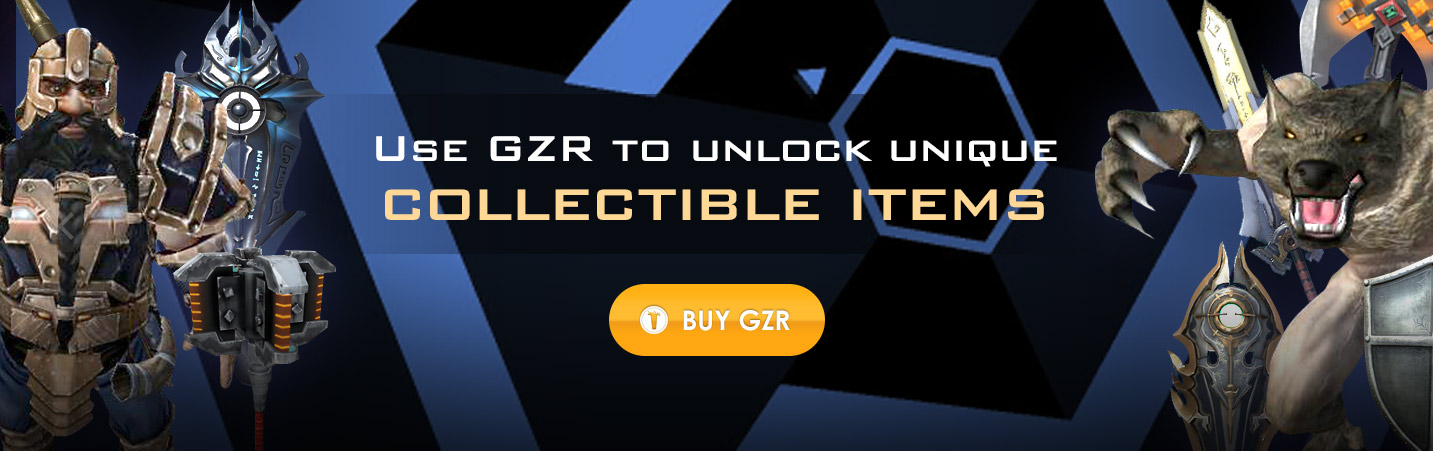
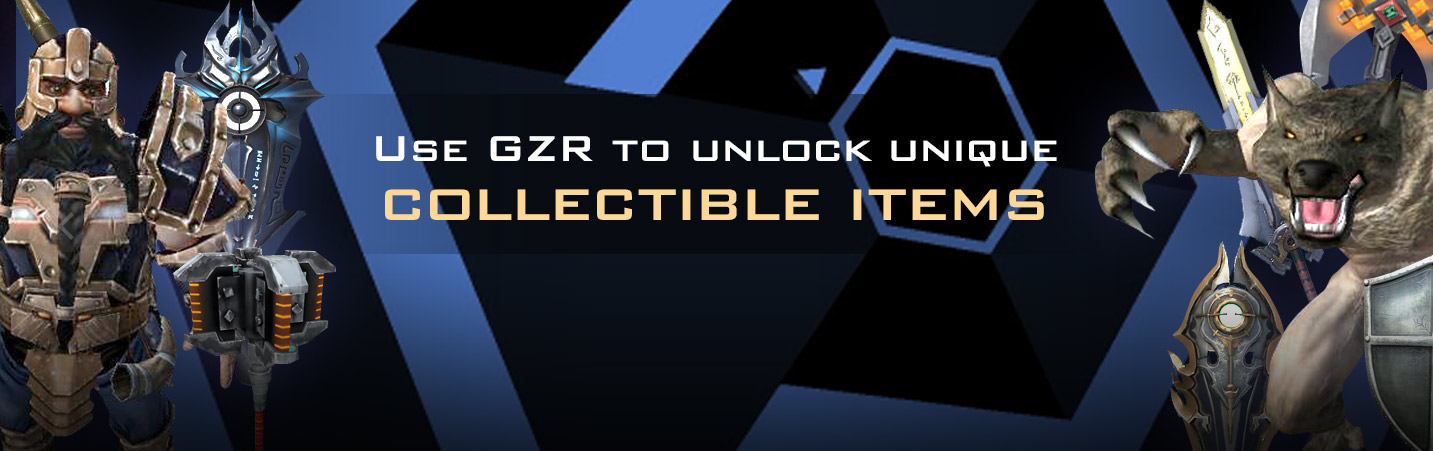
# Slider button works

Changed region(s): [[0.3992, 0.6208, 0.5834, 0.8071]]

diff --git a/src/app/app-routing.module.ts b/src/app/app-routing.module.ts
@@ -13,17 +13,14 @@ const routes: Routes = [
       {
         path: 'buy-gzr',
         loadChildren: './pages/buy-gzr/buy-gzr.module#BuyGzrModule',
-        pathMatch: 'full'
       },
       {
         path: 'meta-mask',
         loadChildren: './pages/meta-mask/meta-mask.module#MetaMaskModule',
-        pathMatch: 'full'
       },
       {
         path: 'open-treasure',
         loadChildren: './pages/open-treasure/open-treasure.module#OpenTreasureModule',
-        pathMatch: 'full'
       },
       {
         path: 'save-account',
@@ -33,22 +30,18 @@ const routes: Routes = [
       {
         path: 'faq',
         loadChildren: './pages/faq/faq.module#FaqModule',
-        pathMatch: 'full'
       },
       {
         path: 'team',
         loadChildren: './pages/team/team.module#TeamModule',
-        pathMatch: 'full'
       },
       {
         path: 'item-detail',
         loadChildren: './pages/item-detail/item-detail.module#ItemDetailModule',
-        pathMatch: 'full'
       },
       {
         path: 'terms-and-conditions',
         loadChildren: './pages/terms-and-conditions/terms-and-conditions.module#TermsAndConditionsModule',
-        pathMatch: 'full'
       }
     ]
   },

diff --git a/src/app/shared/components/hero-slider/hero-slider.component.scss b/src/app/shared/components/hero-slider/hero-slider.component.scss
@@ -1,4 +1,22 @@
 .hero-slider {
+    .btn-buy-gzr {
+        cursor: pointer;
+    }
+    .item-0 {
+        position: absolute;
+        top: 63%;
+        left: calc(50% - 108px);
+    }
+    .item-1 {
+        position: absolute;
+        top: 60%;
+        left: 10%;
+    }
+    .item-2 {
+        position: absolute;
+        top: 63%;
+        left: calc(50% - 108px);
+    }
     .carousel {
         .slick-dots {
             bottom: 25px;

diff --git a/src/app/shared/components/hero-slider/hero-slider.component.html b/src/app/shared/components/hero-slider/hero-slider.component.html
@@ -4,8 +4,9 @@
     #slickModal="slick-modal"
     [config]="slideConfig"
     >
-      <div ngxSlickItem *ngFor="let slide of slides" class="slide">
+      <div ngxSlickItem *ngFor="let slide of slides; let i = index" class="slide">
         <img src="{{ slide.img }}" alt="" width="100%">
+        <img class="btn-buy-gzr item-{{i}}" src="/assets/images/btn-buy-gzr.png">
       </div>
   </ngx-slick>
 </div>
